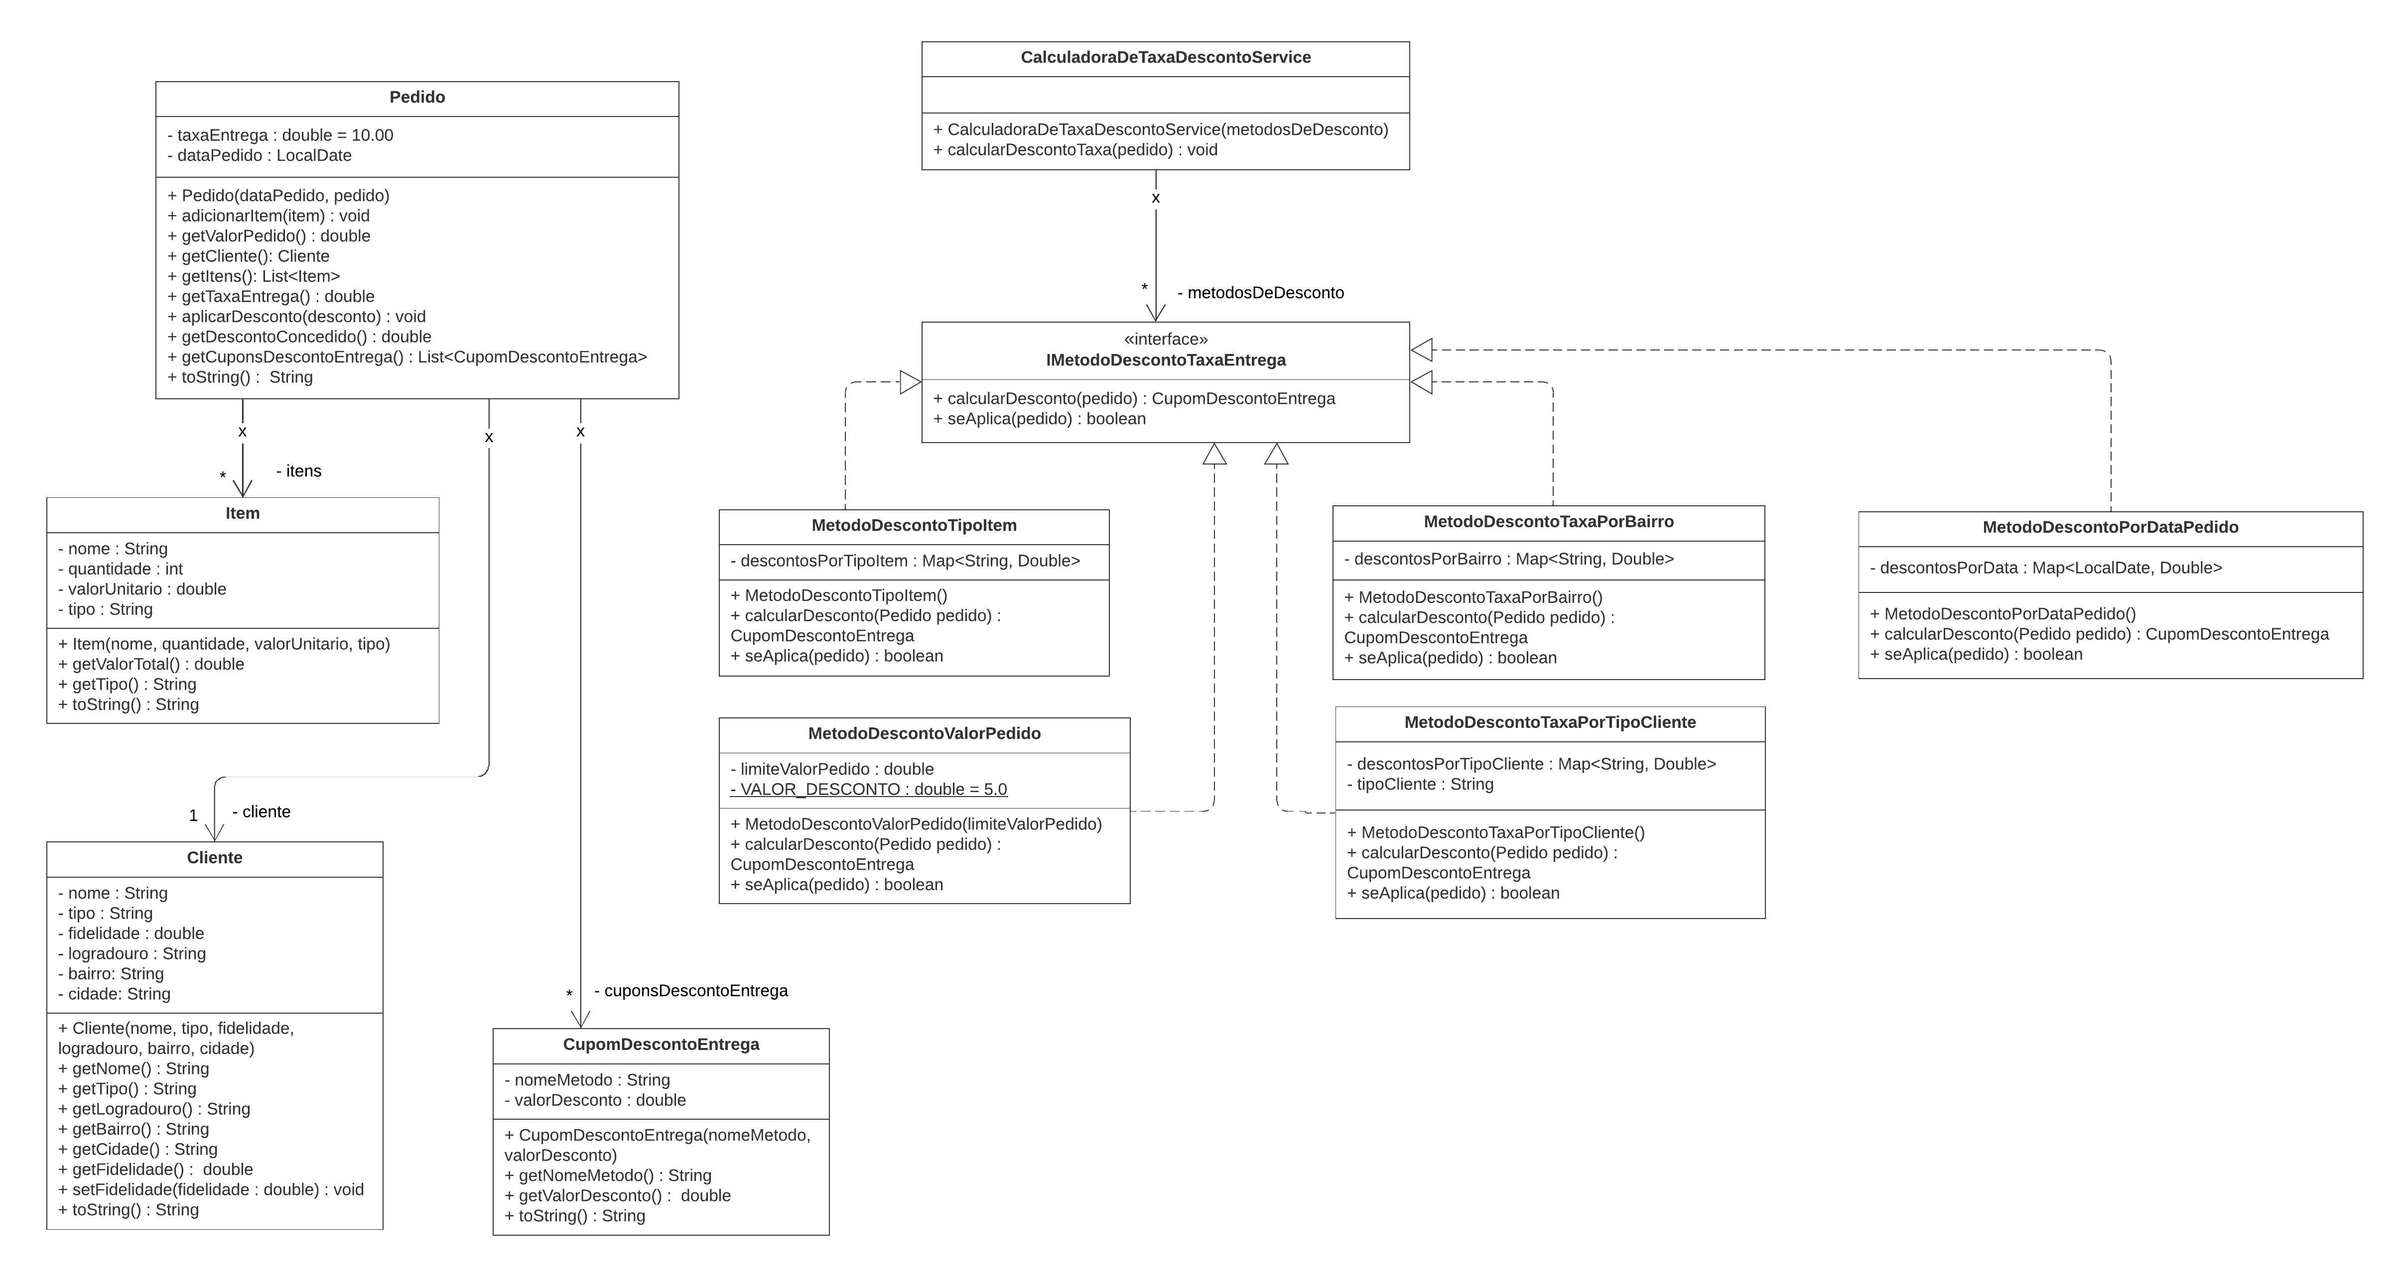
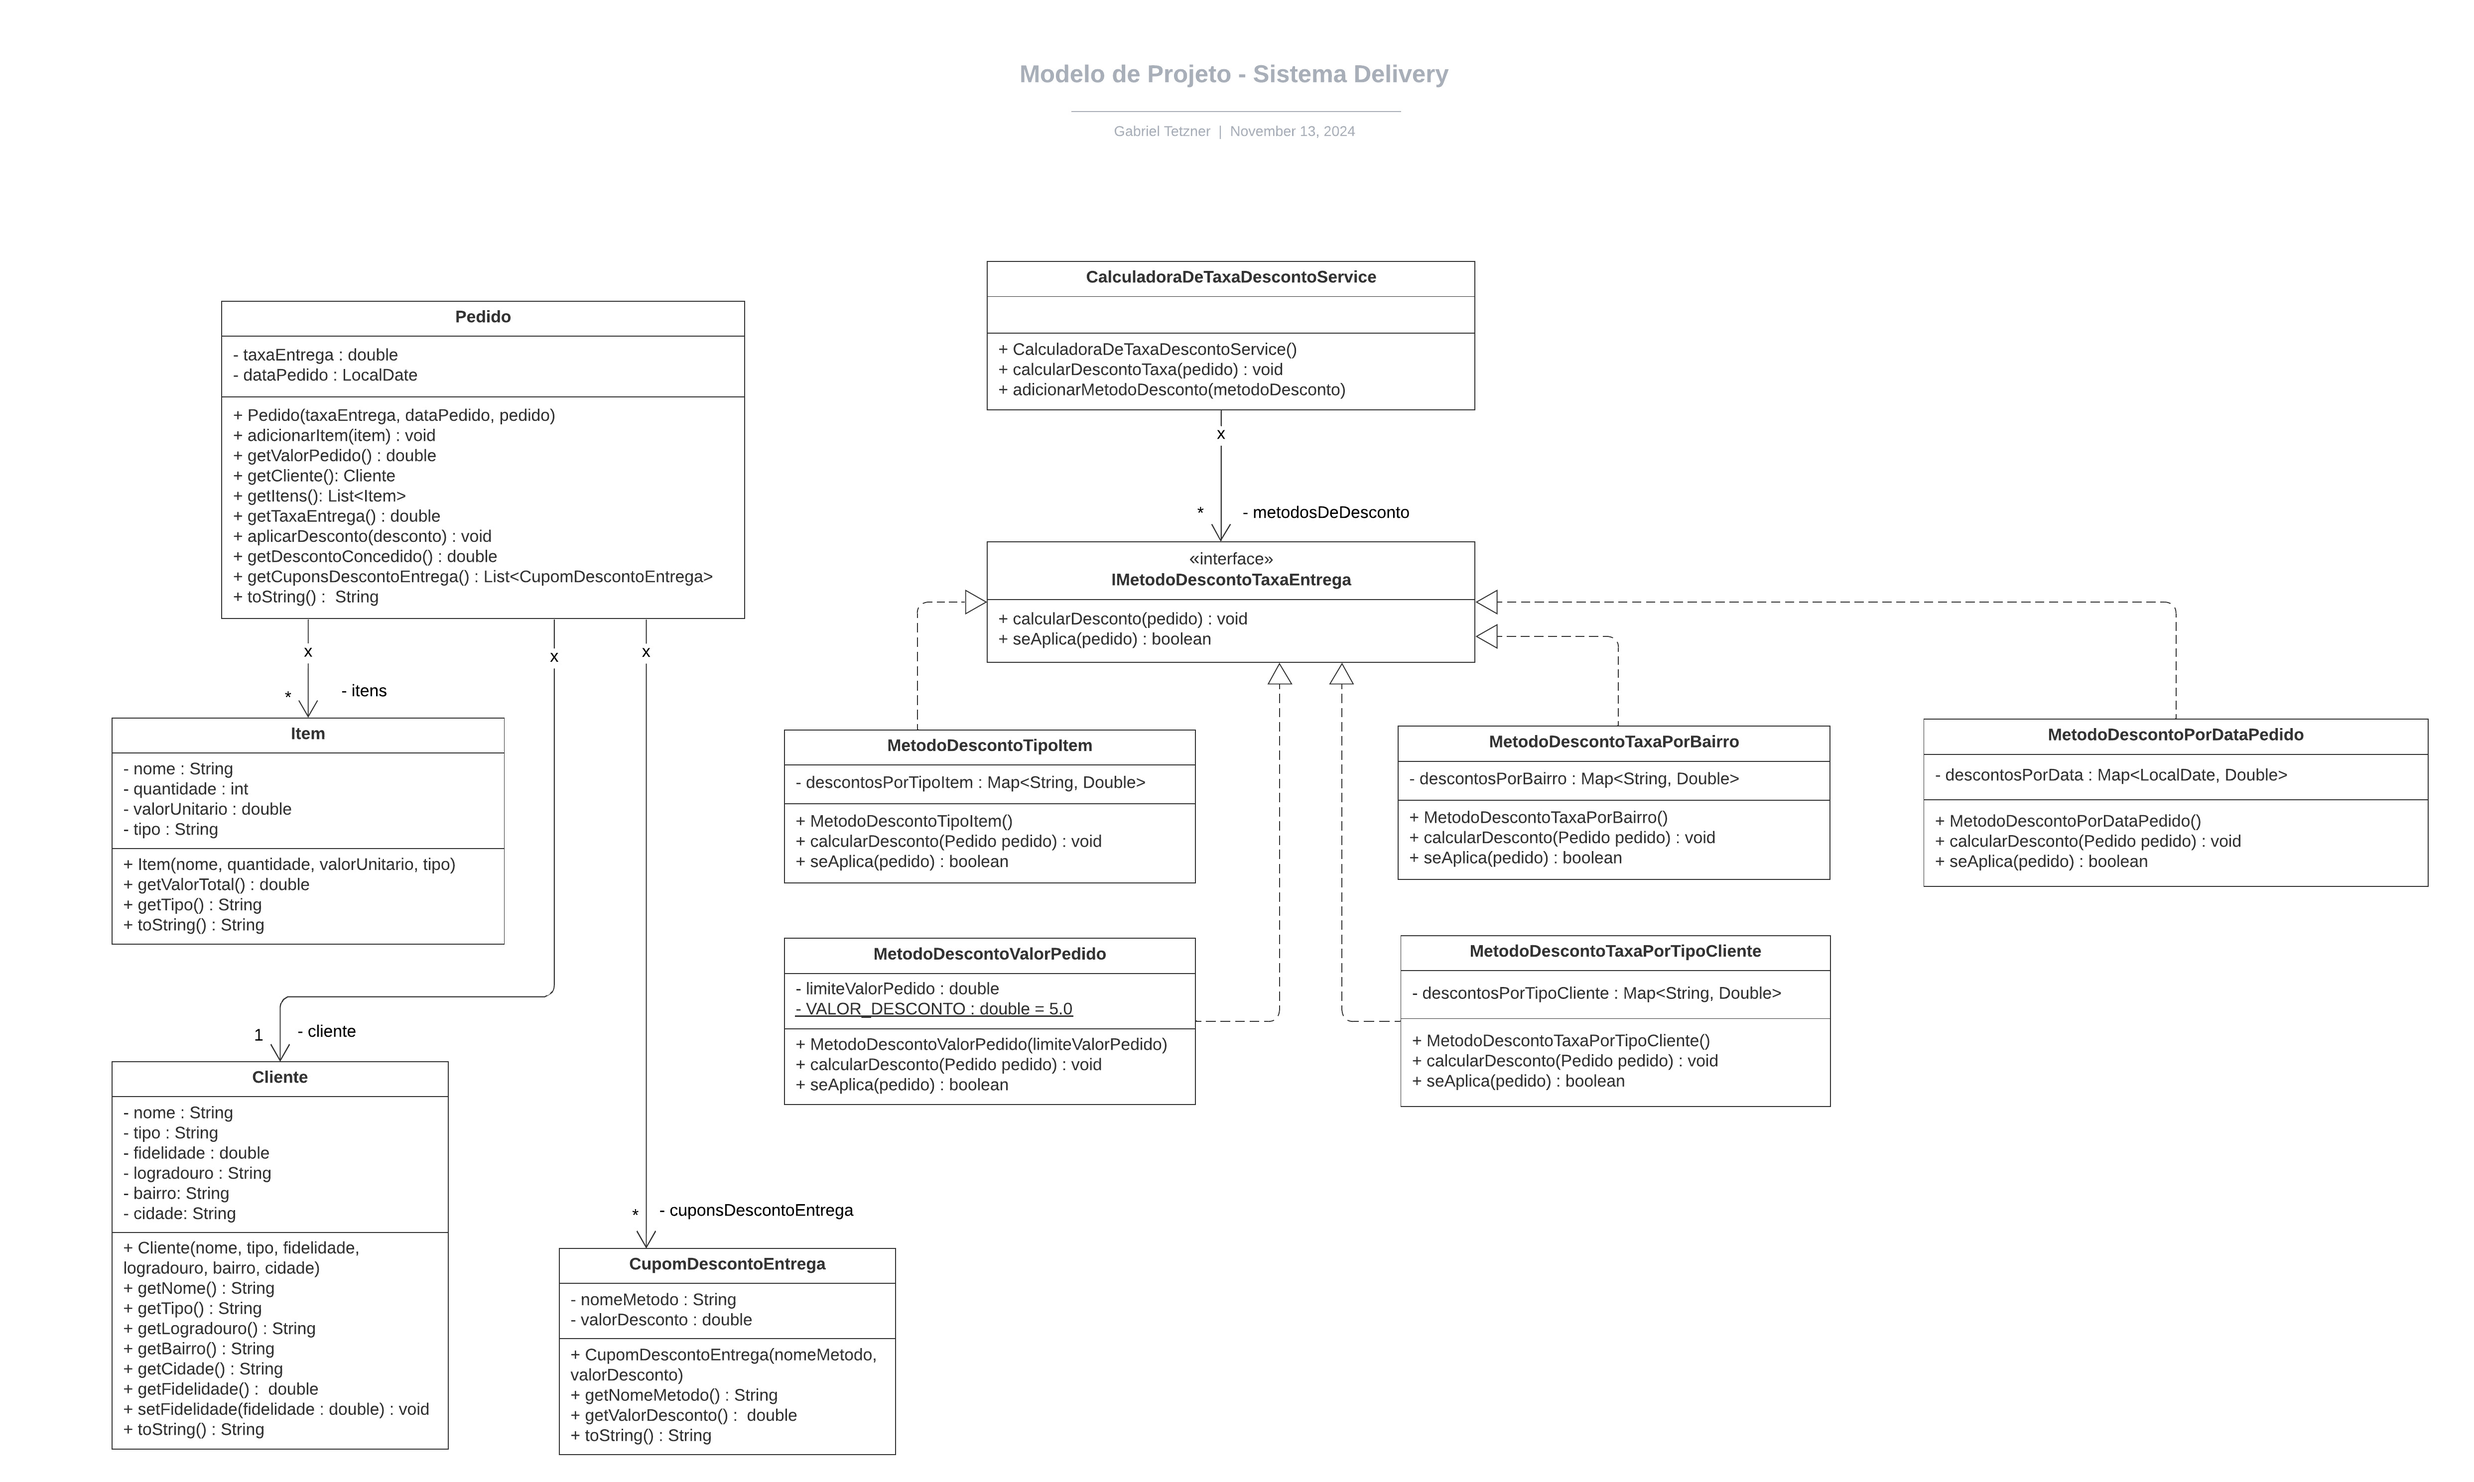
Atualizando código fonte em classes principais de desconto e service, alterações das regras de negócios e uma atualização do readme.me

diff --git a/src/main/java/ufes/br/sistemadelivery/Principal.java b/src/main/java/ufes/br/sistemadelivery/Principal.java
@@ -1,18 +1,10 @@
 package ufes.br.sistemadelivery;
 
 import ufes.br.services.CalculadoraDeTaxaDescontoService;
-import ufes.br.desconto.MetodoDescontoTaxaPorBairro;
-import ufes.br.desconto.MetodoDescontoTaxaPorTipoCliente;
-import ufes.br.desconto.MetodoDescontoTipoItem;
-import ufes.br.desconto.MetodoDescontoValorPedido;
-import ufes.br.interfaces.IMetodoDescontoTaxaEntrega;
 import ufes.br.model.Pedido;
 import ufes.br.model.Item;
 import ufes.br.model.Cliente;
-
 import java.time.LocalDate;
-import java.util.ArrayList;
-import java.util.List;
 
 /**
  *
@@ -22,7 +14,7 @@ public class Principal {
 
     public static void main(String[] args) {
         Cliente cliente = new Cliente("Gabriel Tetzner", "Ouro", 3.0, "...", "Guararema","Alegre");
-        Pedido pedido = new Pedido(LocalDate.now(), cliente);
+        Pedido pedido = new Pedido(10.00, LocalDate.now(), cliente);
       //  Item item1 = new Item("Lápis", 2, 1.00, "Educação");
        // Item item2 = new Item("Caneta", 5, 1.50, "Educação");
         Item item3 = new Item("X-Bacon", 1, 12.00, "Alimentação");
@@ -31,21 +23,15 @@ public class Principal {
        // pedido.adicionarItem(item2);
         pedido.adicionarItem(item3);
         pedido.adicionarItem(item4);
-        List<IMetodoDescontoTaxaEntrega> metodosDescontos = new ArrayList<>();
-        metodosDescontos.add(new MetodoDescontoTaxaPorBairro());
-        metodosDescontos.add(new MetodoDescontoTipoItem());
-        metodosDescontos.add(new MetodoDescontoTaxaPorTipoCliente());
-        metodosDescontos.add(new MetodoDescontoValorPedido(200.00)); 
-        
-        CalculadoraDeTaxaDescontoService calculadora = new CalculadoraDeTaxaDescontoService(metodosDescontos);
+     
+        CalculadoraDeTaxaDescontoService calculadora = new CalculadoraDeTaxaDescontoService();
         
         calculadora.calcularDescontoTaxa(pedido);
         
         double valorDesconto = pedido.getDescontoConcedido();
-        
-        if(valorDesconto > 0){
-            System.out.println(pedido);
-            System.out.println("Desconto Concedido: " + valorDesconto);
-        }   
-    }
+      
+        System.out.println(pedido);
+        System.out.println("Desconto Concedido: " + valorDesconto);
+    }   
 }
+

diff --git a/src/main/java/ufes/br/services/CalculadoraDeTaxaDescontoService.java b/src/main/java/ufes/br/services/CalculadoraDeTaxaDescontoService.java
@@ -4,7 +4,10 @@ import java.util.ArrayList;
 import ufes.br.interfaces.IMetodoDescontoTaxaEntrega;
 import ufes.br.model.Pedido;
 import java.util.List;
-import ufes.br.model.CupomDescontoEntrega;
+import ufes.br.desconto.MetodoDescontoTaxaPorBairro;
+import ufes.br.desconto.MetodoDescontoTaxaPorTipoCliente;
+import ufes.br.desconto.MetodoDescontoTipoItem;
+import ufes.br.desconto.MetodoDescontoValorPedido;
 
 /**
  *
@@ -13,22 +16,21 @@ import ufes.br.model.CupomDescontoEntrega;
 public class CalculadoraDeTaxaDescontoService {
     private List<IMetodoDescontoTaxaEntrega> metodosDeDesconto = new ArrayList<>();
     
-    public CalculadoraDeTaxaDescontoService(List<IMetodoDescontoTaxaEntrega> metodosDeDesconto){
-       this.metodosDeDesconto = metodosDeDesconto; 
+    public CalculadoraDeTaxaDescontoService(){
+        metodosDeDesconto.add(new MetodoDescontoTaxaPorBairro());
+        metodosDeDesconto.add(new MetodoDescontoTipoItem());
+        metodosDeDesconto.add(new MetodoDescontoTaxaPorTipoCliente());
+        metodosDeDesconto.add(new MetodoDescontoValorPedido(200.00)); 
     }
     
     public void calcularDescontoTaxa(Pedido pedido){
-        
         for(IMetodoDescontoTaxaEntrega metodoDesconto : metodosDeDesconto){   
-      
-            CupomDescontoEntrega desconto = metodoDesconto.calcularDesconto(pedido);
-            
-            pedido.aplicarDesconto(desconto);
-            
-            // logica para o limite de desconto
-            if(pedido.getDescontoConcedido() > 10){
-                break;
-            }
+            metodoDesconto.calcularDesconto(pedido);
         }   
     }
+    
+    public void adicionarMetodoDesconto(IMetodoDescontoTaxaEntrega metodoDesconto){
+        metodosDeDesconto.add(metodoDesconto);
+    }
+    
 }

diff --git a/src/main/java/ufes/br/model/Pedido.java b/src/main/java/ufes/br/model/Pedido.java
@@ -2,6 +2,7 @@ package ufes.br.model;
 
 import java.time.LocalDate;
 import java.util.ArrayList;
+import java.util.Collections;
 import java.util.List;
 
 /**
@@ -9,13 +10,14 @@ import java.util.List;
  * @author tetzner
  */
 public class Pedido {
-    private double taxaEntrega = 10.00;
+    private double taxaEntrega;
     private LocalDate dataPedido;
     private Cliente cliente;
     private List<Item> itens = new ArrayList<>();
     private List<CupomDescontoEntrega> cuponsDescontoEntrega = new ArrayList<>();
     
-    public Pedido(LocalDate dataPedido, Cliente cliente){
+    public Pedido(double taxaEntrega, LocalDate dataPedido, Cliente cliente){
+        this.taxaEntrega = taxaEntrega;
         this.dataPedido = dataPedido;
         this.cliente = cliente;
     }
@@ -39,7 +41,7 @@ public class Pedido {
     }
     
     public List<Item> getItens(){
-        return itens;
+        return Collections.unmodifiableList(itens);
     }
     
     public double getTaxaEntrega(){
@@ -58,15 +60,18 @@ public class Pedido {
         double descontoConcedido = 0.0;
         
         for(CupomDescontoEntrega cupomDescontoEntrega: cuponsDescontoEntrega){
-            if(cupomDescontoEntrega != null){
-                descontoConcedido += cupomDescontoEntrega.getValorDesconto();
-            }
+            descontoConcedido += cupomDescontoEntrega.getValorDesconto();
         }
+        
+        if(descontoConcedido > taxaEntrega){
+            return taxaEntrega;
+        }
+        
         return descontoConcedido;
     }
     
     public List<CupomDescontoEntrega> getCuponsDescontoEntrega(){
-        return cuponsDescontoEntrega;
+       return Collections.unmodifiableList(cuponsDescontoEntrega);
     }
 
     @Override

diff --git a/src/main/java/ufes/br/desconto/MetodoDescontoTaxaPorTipoCliente.java b/src/main/java/ufes/br/desconto/MetodoDescontoTaxaPorTipoCliente.java
@@ -11,7 +11,6 @@ import ufes.br.model.Pedido;
  * @author tetzner
  */
 public class MetodoDescontoTaxaPorTipoCliente implements IMetodoDescontoTaxaEntrega {
-    private String tipoCliente;
     private Map<String,Double> descontosPorTipoCliente = new HashMap<>();
     
     public MetodoDescontoTaxaPorTipoCliente(){
@@ -21,23 +20,20 @@ public class MetodoDescontoTaxaPorTipoCliente implements IMetodoDescontoTaxaEntr
     }
     
     @Override
-    public CupomDescontoEntrega calcularDesconto(Pedido pedido) {
+    public void calcularDesconto(Pedido pedido) {
 
-        tipoCliente = pedido.getCliente().getTipo();
+        String tipoCliente = pedido.getCliente().getTipo();
         double valorDesconto;
         
         if(seAplica(pedido)){
-            valorDesconto = descontosPorTipoCliente.get(pedido.getCliente().getTipo());
-            if(pedido.getDescontoConcedido() + valorDesconto > 10.00){ 
-                return new CupomDescontoEntrega("Desconto parcial por tipo de cliente", 10.00 - pedido.getDescontoConcedido()); 
-            }  
-            return new CupomDescontoEntrega("Desconto total por tipo de cliente", valorDesconto);
+            valorDesconto = descontosPorTipoCliente.get(tipoCliente);
+            pedido.aplicarDesconto(new CupomDescontoEntrega("Desconto por tipo de cliente", valorDesconto));
         }
-        return null;
     }
 
     @Override
     public boolean seAplica(Pedido pedido) {
-        return (tipoCliente.equals("Ouro") || tipoCliente.equals("Prata") || tipoCliente.equals("Bronze"));
+        String tipoCliente = pedido.getCliente().getTipo();
+        return descontosPorTipoCliente.containsKey(tipoCliente);
     }
 }

diff --git a/src/main/java/ufes/br/desconto/MetodoDescontoTaxaPorBairro.java b/src/main/java/ufes/br/desconto/MetodoDescontoTaxaPorBairro.java
@@ -11,7 +11,6 @@ import ufes.br.model.Pedido;
  * @author tetzner
  */
 public class MetodoDescontoTaxaPorBairro implements IMetodoDescontoTaxaEntrega {
-    private String bairroCliente;
     private Map<String, Double> descontosPorBairro = new HashMap<>();
     
     public MetodoDescontoTaxaPorBairro(){
@@ -21,24 +20,20 @@ public class MetodoDescontoTaxaPorBairro implements IMetodoDescontoTaxaEntrega {
     }
     
     @Override
-    public CupomDescontoEntrega calcularDesconto(Pedido pedido) {
-        bairroCliente = pedido.getCliente().getBairro();
+    public void calcularDesconto(Pedido pedido) {
+        String bairroCliente = pedido.getCliente().getBairro();
         double valorDesconto;
 
         if(seAplica(pedido)){
-            valorDesconto = descontosPorBairro.get(pedido.getCliente().getBairro());
-            if(pedido.getDescontoConcedido() + valorDesconto > 10.00){ 
-                return new CupomDescontoEntrega("Desconto parcial por bairro", 10.00 - pedido.getDescontoConcedido()); 
-            }
-            
-            return new CupomDescontoEntrega("Desconto total por bairro", valorDesconto);
+            valorDesconto = descontosPorBairro.get(bairroCliente);
+            pedido.aplicarDesconto(new CupomDescontoEntrega("Desconto por bairro", valorDesconto));
         }
-        return null; 
     }
 
     @Override
     public boolean seAplica(Pedido pedido) {
-        return (bairroCliente.equals("Centro") || bairroCliente.equals("Bela Vista") || bairroCliente.equals("Cidade Maravilhosa"));
+        String bairroCliente = pedido.getCliente().getBairro();
+        return descontosPorBairro.containsKey(bairroCliente);
     }
     
 }

diff --git a/src/main/java/ufes/br/desconto/MetodoDescontoTipoItem.java b/src/main/java/ufes/br/desconto/MetodoDescontoTipoItem.java
@@ -22,7 +22,7 @@ public class MetodoDescontoTipoItem implements IMetodoDescontoTaxaEntrega {
     }
     
     @Override
-    public CupomDescontoEntrega calcularDesconto(Pedido pedido) {
+    public void calcularDesconto(Pedido pedido) {
         double valorDesconto = 0.0;
         List<Item> itens = pedido.getItens();
         
@@ -30,21 +30,15 @@ public class MetodoDescontoTipoItem implements IMetodoDescontoTaxaEntrega {
             for(Item item : itens){
                 valorDesconto += descontosPorTipoItem.get(item.getTipo());
             }
-            if(pedido.getDescontoConcedido() + valorDesconto > 10.00){ 
-                return new CupomDescontoEntrega("Desconto parcial por tipo de item", 10.00 - pedido.getDescontoConcedido()); 
-            }
-            return new CupomDescontoEntrega("Desconto total por tipo de item", valorDesconto);
+            pedido.aplicarDesconto(new CupomDescontoEntrega("Desconto por tipo de item", valorDesconto)); 
         }
-        return null;
     }
 
     @Override
     public boolean seAplica(Pedido pedido) {
         
         for(Item item: pedido.getItens()){
-            if(item.getTipo().equals("Alimentação") || item.getTipo().equals("Educação") || item.getTipo().equals("Lazer")){   
-                return true;
-            }
+            descontosPorTipoItem.containsKey(item.getTipo());   
         }
        
         return false;

diff --git a/src/main/java/ufes/br/desconto/MetodoDescontoValorPedido.java b/src/main/java/ufes/br/desconto/MetodoDescontoValorPedido.java
@@ -17,15 +17,13 @@ public class MetodoDescontoValorPedido implements IMetodoDescontoTaxaEntrega {
     }
     
     @Override
-    public CupomDescontoEntrega calcularDesconto(Pedido pedido) {
+    public void calcularDesconto(Pedido pedido) {
         
         if(seAplica(pedido)){         
-            if(pedido.getDescontoConcedido() > 10.00){ 
-                return new CupomDescontoEntrega("Desconto parcial por valor de pedido", 10.00 - pedido.getDescontoConcedido()); 
-            }       
-            return new CupomDescontoEntrega("Desconto total por valor pedido", VALOR_DESCONTO);
+            //if(pedido.getDescontoConcedido() < 10.00){ 
+               pedido.aplicarDesconto(new CupomDescontoEntrega("Desconto por valor pedido", VALOR_DESCONTO));
+            //}        
         }
-        return null;
     }
 
     @Override

diff --git a/src/main/java/ufes/br/interfaces/IMetodoDescontoTaxaEntrega.java b/src/main/java/ufes/br/interfaces/IMetodoDescontoTaxaEntrega.java
@@ -8,6 +8,6 @@ import ufes.br.model.Pedido;
  * @author tetzner
  */
 public interface IMetodoDescontoTaxaEntrega {
-    public CupomDescontoEntrega calcularDesconto(Pedido pedido);
+    public void calcularDesconto(Pedido pedido);
     public boolean seAplica(Pedido pedido);
 }
